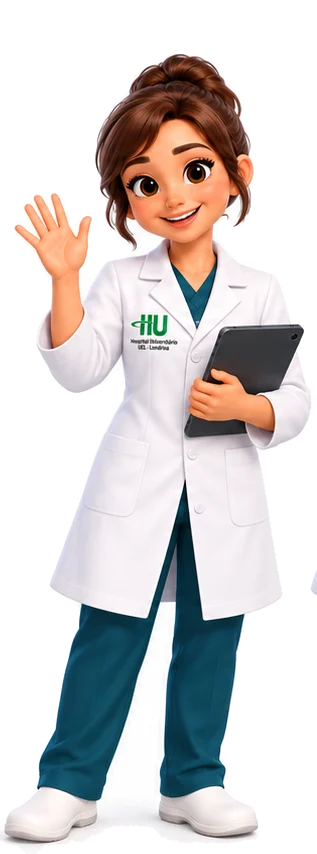
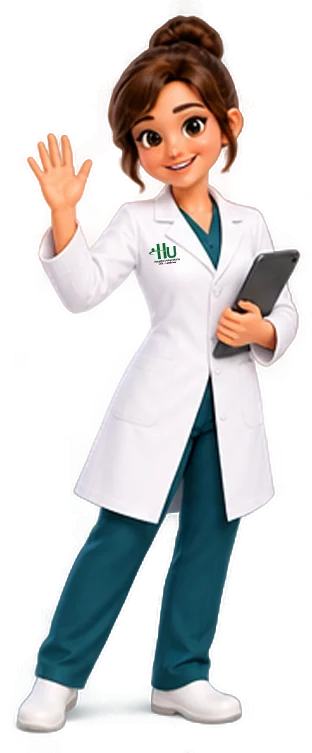
Nery acenando com fundo transparente (0.11.2)

diff --git a/ACOMPANHAMENTO_IMPLEMENTACAO.md b/ACOMPANHAMENTO_IMPLEMENTACAO.md
@@ -142,7 +142,7 @@ Implementação concluída para homologação interna (ver `IMPLEMENTATION_REPOR
 - Verificação: 53 testes unitários e 11 fluxos de navegador; telas revisadas em 1280×800, 800×1280 e 390×844.
 
 ### 17. Artes finais da Nery e medalhas — concluída (28/09/2026)
-- Seis poses da Nery substituídas por versões com fundo transparente de origem; a pose de aceno (wave) continua a anterior, com recorte automático.
+- Seis poses da Nery substituídas por versões com fundo transparente de origem; a pose de aceno (wave) foi substituída depois, na 0.11.2, também com fundo transparente.
 - Conjunto completo de 7 medalhas ilustradas; o jogo passou a usar as medalhas ilustradas no lugar das vetoriais.
 - `docs/art/Sem Título-13.png` é cópia idêntica de `nery-explain-v1.png` e é ignorada pelo pipeline.
 - Verificação: testes unitários, fluxos de navegador e telas de missão, explicação e resultado revisadas.

diff --git a/README.md b/README.md
@@ -1,6 +1,6 @@
 # Destino Certo - Resíduos HU
 
-Jogo educativo para tablet sobre segregação e acondicionamento de resíduos no HU-UEL. Versão de homologação 0.11.1, publicada em https://edyramos.github.io/destino-certo-residuos-hu/.
+Jogo educativo para tablet sobre segregação e acondicionamento de resíduos no HU-UEL. Versão de homologação 0.11.2, publicada em https://edyramos.github.io/destino-certo-residuos-hu/.
 
 ## Conceito
 O participante recebe itens do cotidiano hospitalar com a condição de uso descrita e deve encaminhá-los ao destino correto. Cada pergunta admite três tentativas (100, 60 e 30 pontos); antes da revelação há uma dica, e depois do acerto ou do terceiro erro aparecem o destino e a explicação. A carreira tem três fases; é preciso acertar 6 de 10 para avançar. A prática por fase não altera a carreira nem o ranking local.

diff --git a/CHANGELOG.md b/CHANGELOG.md
@@ -1,5 +1,8 @@
 # Changelog
 
+## 0.11.2 — Nery acenando (28/09/2026)
+- pose de aceno da Nery com fundo transparente de origem (tela inicial e mapa da carreira).
+
 ## 0.11.1 — artes finais da Nery e medalhas (28/09/2026)
 - poses da Nery com fundo transparente de origem (apresentação, comemoração, dica, incentivo, explicação e troféu);
 - conjunto completo das 7 medalhas ilustradas (capítulos 1 a 3, carreira completa, fase perfeita, sequência e aprender com o erro).
